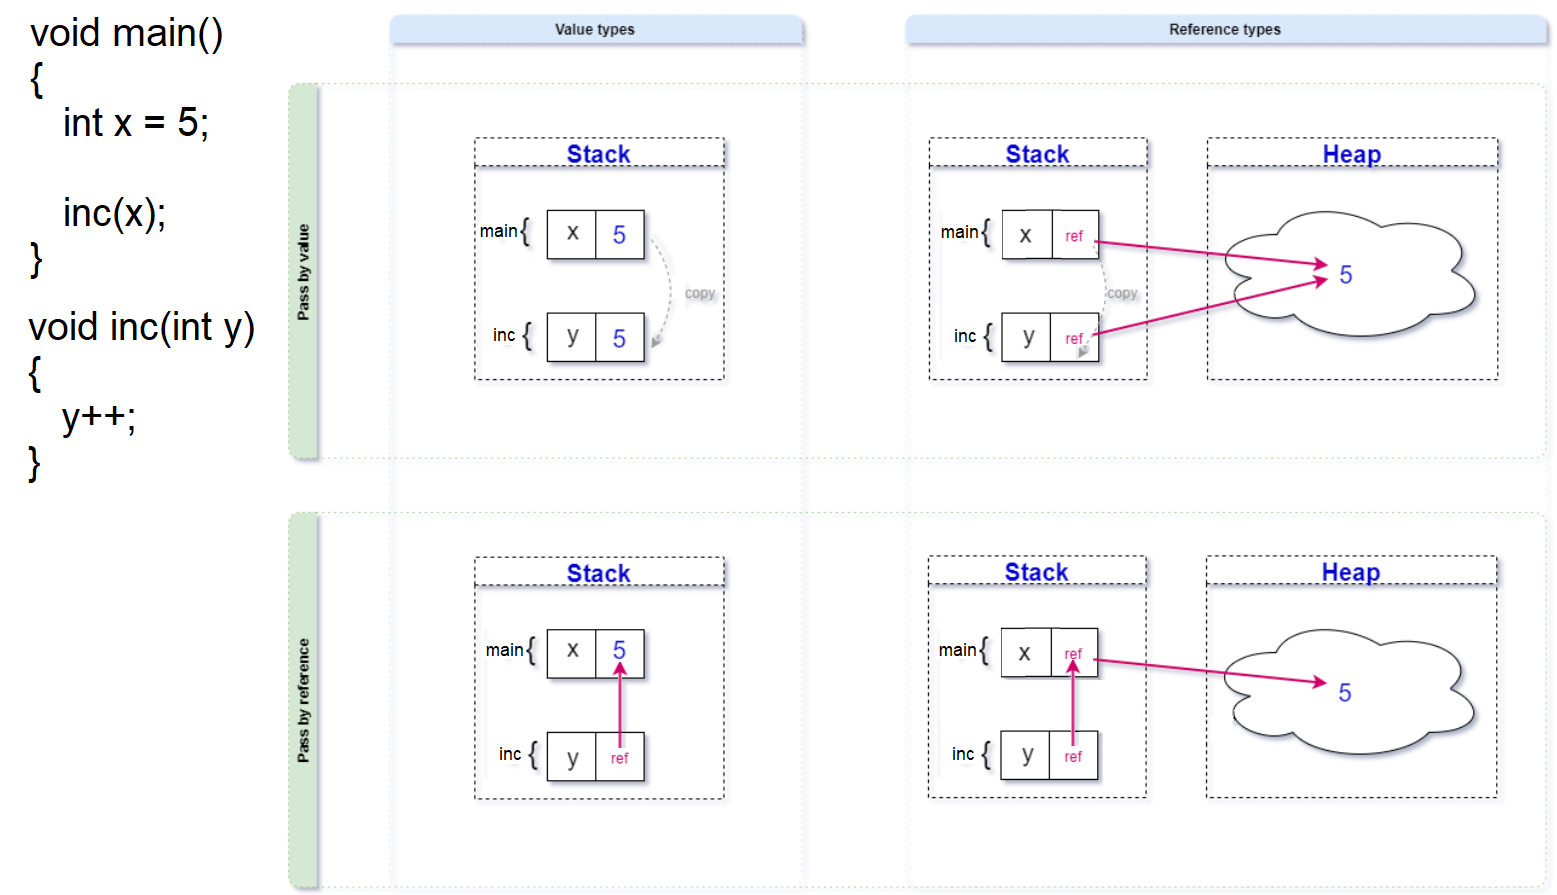
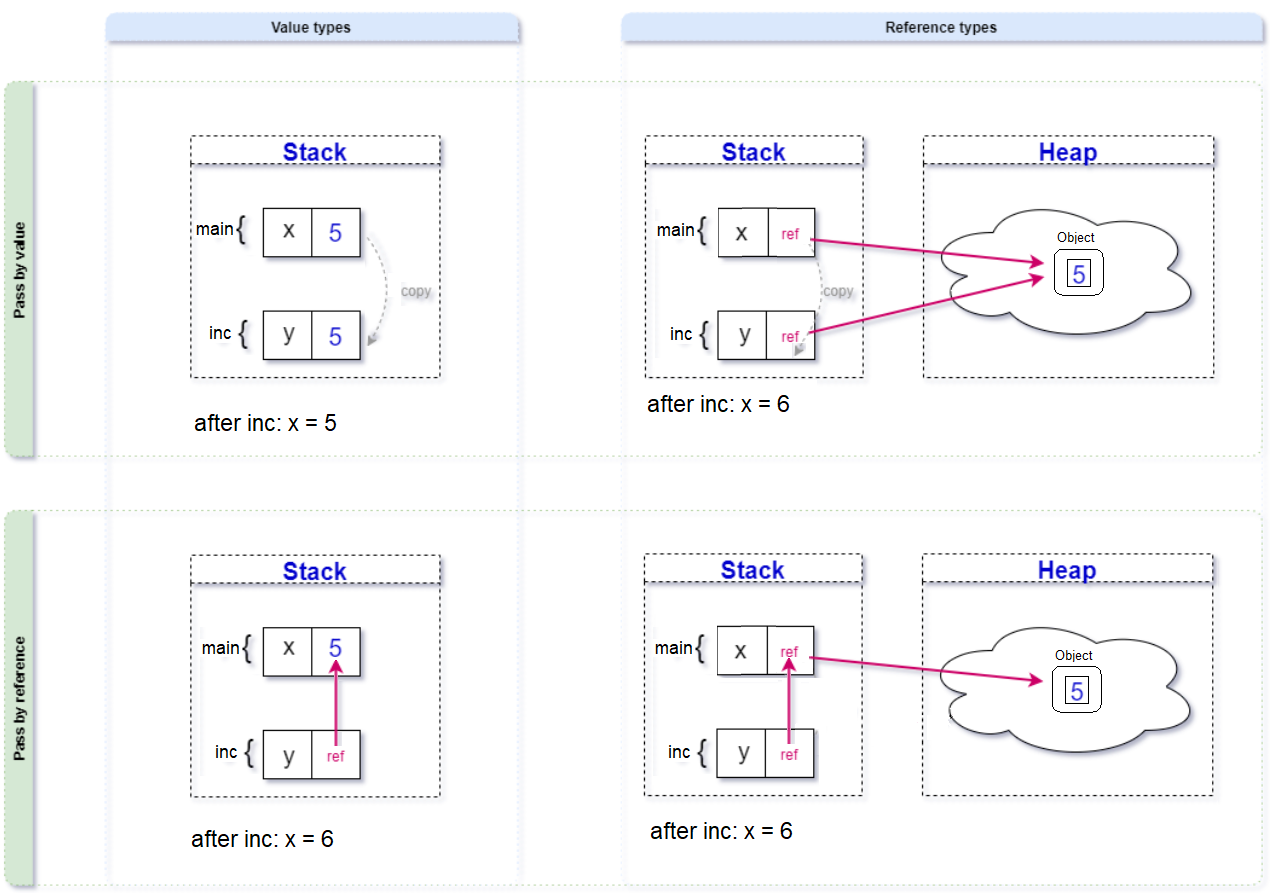
Update

diff --git a/docs/cryptography/pki.html b/docs/cryptography/pki.html
@@ -11,52 +11,6 @@
 	<p>A Public Key Infrastructure is a system that can manage (create, distribute, store and revoke) digital certificates. The purpose of a PKI is to secure the electronic communication (e-commerce, internet banking and confidential email). Certificates are used for authentication as well as validating the information.<br>
 	Each individual has a public key and a private key in an asymmetric system. The public key can verify a digital signature that the private key creates.</p>
 
-	<li><b>Authentication</b>: It confirms the identity of a user. It is performed by password verification.<br>
-      <ul>
-	    <li><b>Basic (Access) Authentication</b>: It requires users to provide a user name and password credentials.</li>
-	    <li><b>Single Sign-On (SSO)</b>: It lets users authenticate themselves just once to access information on any of several systems.</li>			
-      </ul>		
-	</li>
-	<li><b>Authorization</b>: It determines the access level granted a user. It happens after authentication. It is performed by assigning a user to pre-defined groups (classes). Each group lists available objects, along with an associated object-access type (read-only, write-only, or read-write privilege/permission).<br>
-	</li>
-		
-	<h2>Client authentication methods</h2>
-    <table border="1">
-    <thead>
-      <tr>
-        <th>Auth Type</th>
-        <th>Header</th>
-      </tr>
-    </thead>
-    <tbody>
-      <tr>
-        <td>Bearer Token, JWT Bearer (https://jwt.io/), Oauth 2.0</td>
-        <td>Authorization: Bearer eyJh…</td>
-      </tr>
-      <tr>
-        <td>Client Credentials (Basic Auth)</td>
-        <td>Authorization: Basic Base64(&lt;client_id&gt;:&lt;client_secret&gt;)</td>
-      </tr>
-      <tr>
-        <td>User Credentials (Basic Auth)</td>
-        <td>Authorization: Basic Base64(&lt;username&gt;:&lt;password&gt;)</td>
-      </tr>
-      <tr>
-        <td>API Key</td>
-        <td>&lt;key&gt;: &lt;value&gt;</td>
-      </tr>
-    </tbody>
-    </table>	
-	
-	<h2>Keycloak</h2>
-	<p>Keycloak is an open source identity and access management (IAM) solution. It provides authentication, authorization, user federation (LDAP and Active Directory) and user management for applications and services.</p>
-	<b>Standard Protocols</b>
-    <ul>
-	  <li><b>OAuth 2.0</b>: OAuth2 clients (front end applications) can obtain access tokens from the authorization server using the token endpoint and use these same tokens to access resources protected by a resource server (back end services).</li>
-	  <li><b>OpenID Connect 1.0</b>: OpenID Connect is an identity layer on top of <b>OAuth 2.0</b> to verify the identity of a user by an ID token (using SSO).</li>	  	
-	  <li><b>SAML 2.0</b>: SAML (Security Assertion Markup Language) uses XML-based messages to exchange data between an identity provider and a service provider (using SSO).</li>	  
-    </ul>
-	
 	<h2>Definitions</h2>
 	<b>Digital Signature</b>: It is an electronic fingerprint that proves the authenticity and integrity of a digital document. The signature verifier can make sure that the signed content was signed by the alleged sender and was received in an unchanged form.<br>
 	<b>Digital Certificate</b>: It is an electronic document that proves the ownership of a public key and verifies the identity and authenticity of an individual user or device by checking the signature of the Certificate Authority (CA) that issued the certificate.<br>

diff --git a/docs/cryptography/auth.html b/docs/cryptography/auth.html
@@ -1,0 +1,56 @@
+<!doctype html>
+<html>
+  <head>
+    <title>Authentication</title>
+    <link rel="stylesheet" href="../common.css">	
+  </head>
+  <body>
+    <h1>Authentication</h1>
+			
+	<li><b>Authentication</b>: It confirms the identity of a user. It is performed by password verification.<br>
+      <ul>
+	    <li><b>Basic (Access) Authentication</b>: It requires users to provide a user name and password credentials.</li>
+	    <li><b>Single Sign-On (SSO)</b>: It lets users authenticate themselves just once to access information on any of several systems.</li>			
+      </ul>		
+	</li>
+	<li><b>Authorization</b>: It determines the access level granted a user. It happens after authentication. It is performed by assigning a user to pre-defined groups (classes). Each group lists available objects, along with an associated object-access type (read-only, write-only, or read-write privilege/permission).<br>
+	</li>
+		
+	<h2>Client authentication methods</h2>
+    <table border="1">
+    <thead>
+      <tr>
+        <th>Auth Type</th>
+        <th>Header</th>
+      </tr>
+    </thead>
+    <tbody>
+      <tr>
+        <td>Bearer Token, JWT Bearer (https://jwt.io/), Oauth 2.0</td>
+        <td>Authorization: Bearer eyJh…</td>
+      </tr>
+      <tr>
+        <td>Client Credentials (Basic Auth)</td>
+        <td>Authorization: Basic Base64(&lt;client_id&gt;:&lt;client_secret&gt;)</td>
+      </tr>
+      <tr>
+        <td>User Credentials (Basic Auth)</td>
+        <td>Authorization: Basic Base64(&lt;username&gt;:&lt;password&gt;)</td>
+      </tr>
+      <tr>
+        <td>API Key</td>
+        <td>&lt;key&gt;: &lt;value&gt;</td>
+      </tr>
+    </tbody>
+    </table>	
+	
+	<h2>Keycloak</h2>
+	<p>Keycloak is an open source identity and access management (IAM) solution. It provides authentication, authorization, user federation (LDAP and Active Directory) and user management for applications and services.</p>
+	<b>Standard Protocols</b>
+    <ul>
+	  <li><b>OAuth 2.0</b>: OAuth2 clients (front end applications) can obtain access tokens from the authorization server using the token endpoint and use these same tokens to access resources protected by a resource server (back end services).</li>
+	  <li><b>OpenID Connect 1.0</b>: OpenID Connect is an identity layer on top of <b>OAuth 2.0</b> to verify the identity of a user by an ID token (using SSO).</li>	  	
+	  <li><b>SAML 2.0</b>: SAML (Security Assertion Markup Language) uses XML-based messages to exchange data between an identity provider and a service provider (using SSO).</li>	  
+    </ul>	
+  </body>
+</html>

diff --git a/docs/prog/csharp/parameters.html b/docs/prog/csharp/parameters.html
@@ -9,10 +9,10 @@
     <table>
     <tr valign="top">
       <td>
-	    C# types can be either reference types (<i>class, delegates, interface</i>) or value types (<i>struct, enum</i>)
+	    C# types can be either value types (<i>primitive types, struct, enum</i>) or reference types (<i>string, array, class, delegates, interface</i>)
  	    <ul>
-	      <li><i>Pass by value</i> means <b>passing a copy of the variable</b> to the method</li>
-	      <li><i>Pass by reference</i> means <b>passing access to the variable</b> to the method</li>
+	      <li><i>Pass by value</i> means <b>passing a <i>copy</i> of the variable</b> to the method</li>
+	      <li><i>Pass by reference</i> means <b>passing a <i>reference/pointer</i> to the variable</b> to the method</li>
 	      <li>A variable of a <i>reference type</i> contains a reference to its data</li>
 	      <li>A variable of a <i>value type</i> contains its data directly</li>	 
 	      <li>A reference, like a pointer, stores the memory address of an object
@@ -26,7 +26,53 @@
       <td><center><img src="images\coffee.gif" width="100%" height="100%"/></center></td>	  
     </tr>
     </table>
-	<img src="images\inc.png" width="100%" height="100%"/>
+
+    <table>
+    <tr valign="top">
+      <td>
+	   	  <div class="code"><code>	
+<pre>
+
+
+
+void Main()
+{
+	int x = 5;
+	Inc(ref x);
+}
+void Inc(ref int y)
+{
+	y++;
+}
+
+
+
+
+
+
+
+
+void InitializeObject(ref MyObject obj)
+{
+	if (obj == null)
+	{
+		obj = new MyObject();
+	}
+
+	obj.Value = 20;
+}
+
+
+
+
+
+
+</pre></code></div>
+	  </td>
+      <td><center><img src="images\inc.png" width="100%" height="100%"/></center></td>	  
+    </tr>
+    </table>
+
 	<img src="images\threads.png" width="100%" height="100%"/>
 	
 	<div class="code"><code>	

diff --git a/docs/architect/linux.html b/docs/architect/linux.html
@@ -103,11 +103,16 @@
       <td>apt-get install -y dotnet-sdk-6.0</td>
 	  <td>choco install</td>
 	  <td>Install the .NET SDK 6.0 on Linux</td>
-    </tr>
+    </tr>	
     <tr>
-      <td>sudo usermod -aG adm,cdrom,sudo,dip,plugdev,lxd test_user</td>
-	  <td>net user test_user password123 /add<br>net localgroup Administrators test_user /add</td>
-	  <td>Add a user named test_user to multiple groups, including sudo</td>
+      <td>sudo useradd &lt;username&gt;<br>echo &lt;password&gt; | sudo passwd --stdin &lt;username&gt;</td>
+	  <td>net user &lt;username&gt; &lt;password&gt; /add</td>
+	  <td>Create a user with a default password</td>
+    </tr> 	
+    <tr>
+      <td>sudo usermod -aG adm,cdrom,sudo,dip,plugdev,lxd &lt;username&gt;</td>
+	  <td>net localgroup Administrators &lt;username&gt; /add</td>
+	  <td>Add a user to multiple groups, including sudo</td>
     </tr> 
     <tr>
       <td>top</td>

diff --git a/docs/topics.html b/docs/topics.html
@@ -182,6 +182,7 @@
 	<li><span class="caret">Cryptography</span>
       <ul class="nested">
 	    <li><a href="cryptography/terminology.html">Terminology</a></li>
+		<li><a href="cryptography/auth.html">Authentication</a></li>
 		<li><a href="cryptography/pki.html">PKI</a></li>
 		<li><a href="cryptography/tls.html">TLS/SSL</a></li>
 		<li><a href="cryptography/cybersecurity.html">Cyber Security</a></li>
